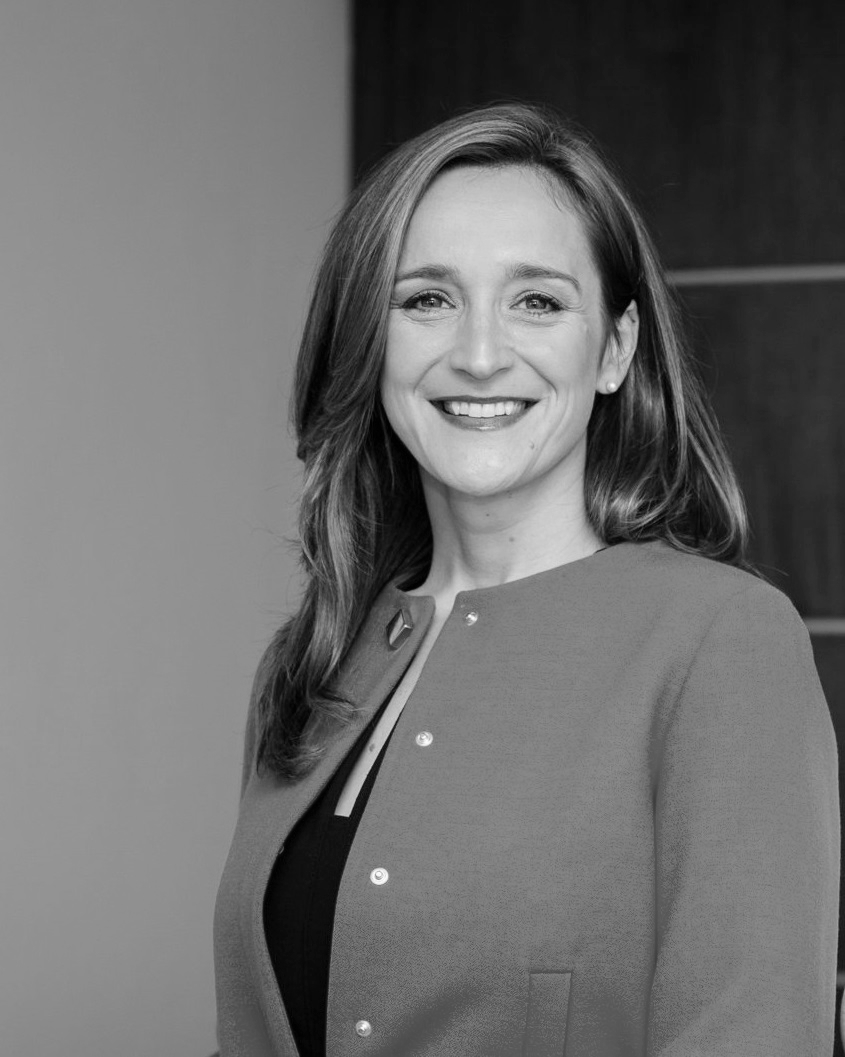
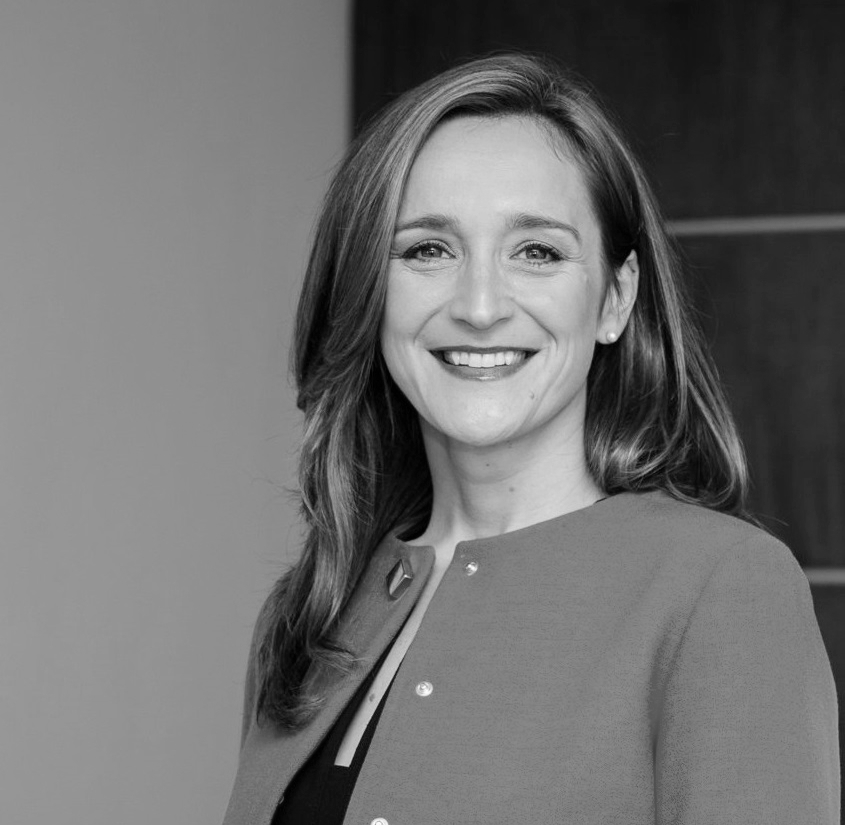
Contact updated.

Changed region(s): [[0.2462, 0.0606, 1.0, 1.0], [0.9846, 0.8788, 1.0, 1.0], [0.4923, 0.8182, 0.5231, 0.8485]]

diff --git a/index.html b/index.html
@@ -140,19 +140,22 @@
     <section id="contact" class="content-section text-center">
         <div class="container">
             <div class="row">
-                <div class="col-lg-6 col-lg-offset-2">
+                <div class="col-sm-6 col-md-6 col-lg-6">
                     <h2>Contacto</h2>
                     <p>Por consultas sobre servicios, no dude en contactarse.</p>
                     <p>
-                        <a href="mailto:contacto@leticiavelez.uy">contacto@leticiavelez.uy</a>
+                        <i class="fa fa-envelope fa-fw" style="color: rgba(0, 166, 156, 1); font-size: 24px;"></i> <a href="mailto:contacto@leticiavelez.uy">contacto@leticiavelez.uy</a>
+                    </p>
+                    <p>
+                        <i class="fa fa-mobile fa-fw" style="color: rgba(0, 166, 156, 1); font-size: 24px;"></i><span style="color: rgba(0, 166, 156, 1)">091 47 47 47</span>
                     </p>
                     <ul class="list-inline banner-social-buttons">
                         <li>
-                            <a href="https://www.linkedin.com/in/leticia-vélez-25564551" target="_blank" class="btn btn-default btn-lg"><i class="fa fa-linkedin fa-fw"></i> <span class="network-name">Linked-In</span></a>
+                            <a href="https://twitter.com/SBootstrap" class="btn btn-default btn-lg"><i class="fa fa-linkedin fa-fw"></i> <span class="network-name">Linked-In</span></a>
                         </li>
                     </ul>
                 </div>
-                <div class="col-lg-4" id="contact-photo">
+                <div class="col-sm-offset-2 col-sm-4 col-md-4 col-lg-4" id="contact-photo">
 
                 </div>
             </div>

diff --git a/Content/site.css b/Content/site.css
@@ -28,7 +28,7 @@ h5,
 h6 {
   margin: 0 0 35px;
   font-family: 'Ubuntu', sans-serif;
-  font-weight: 100;
+  font-weight: 700;
   letter-spacing: 1px;
 }
 p {
@@ -339,10 +339,6 @@ ul.banner-social-buttons {
         padding-top: 100px;
         padding-bottom: 10px;
     }
-    
-    .intro-wrapper{
-        height: auto;
-    }
 
     .intro .intro-body .intro-text {
         font-size: 22px;
@@ -439,8 +435,8 @@ article h3 > span{
 }
 
 #contact-photo{
-    background: url('../Images/contact.jpg') center;
-    background-size: cover;
+    background: url('../Images/contact.jpg') top no-repeat;
+    background-size: contain;
     height: 300px;
 }
 
